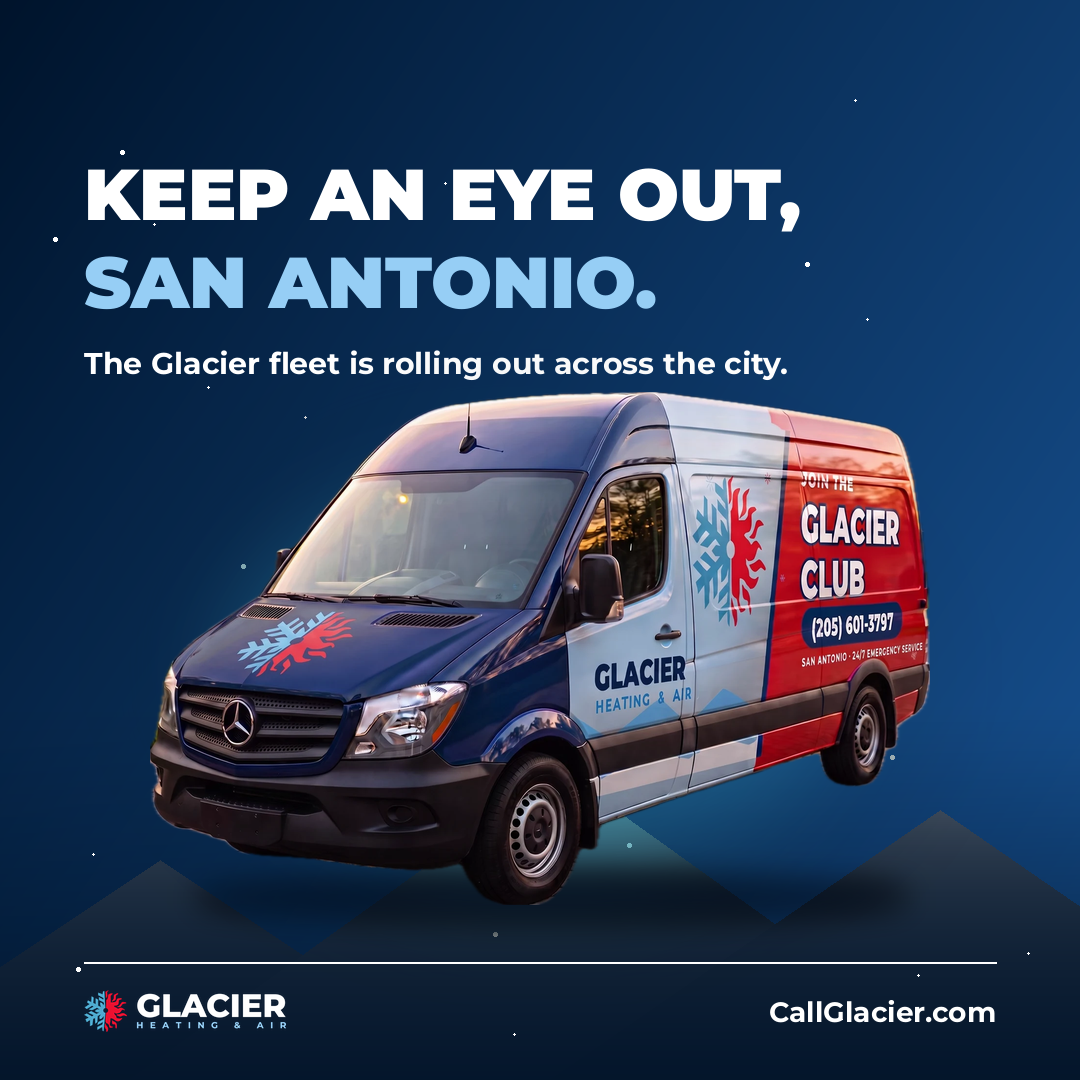
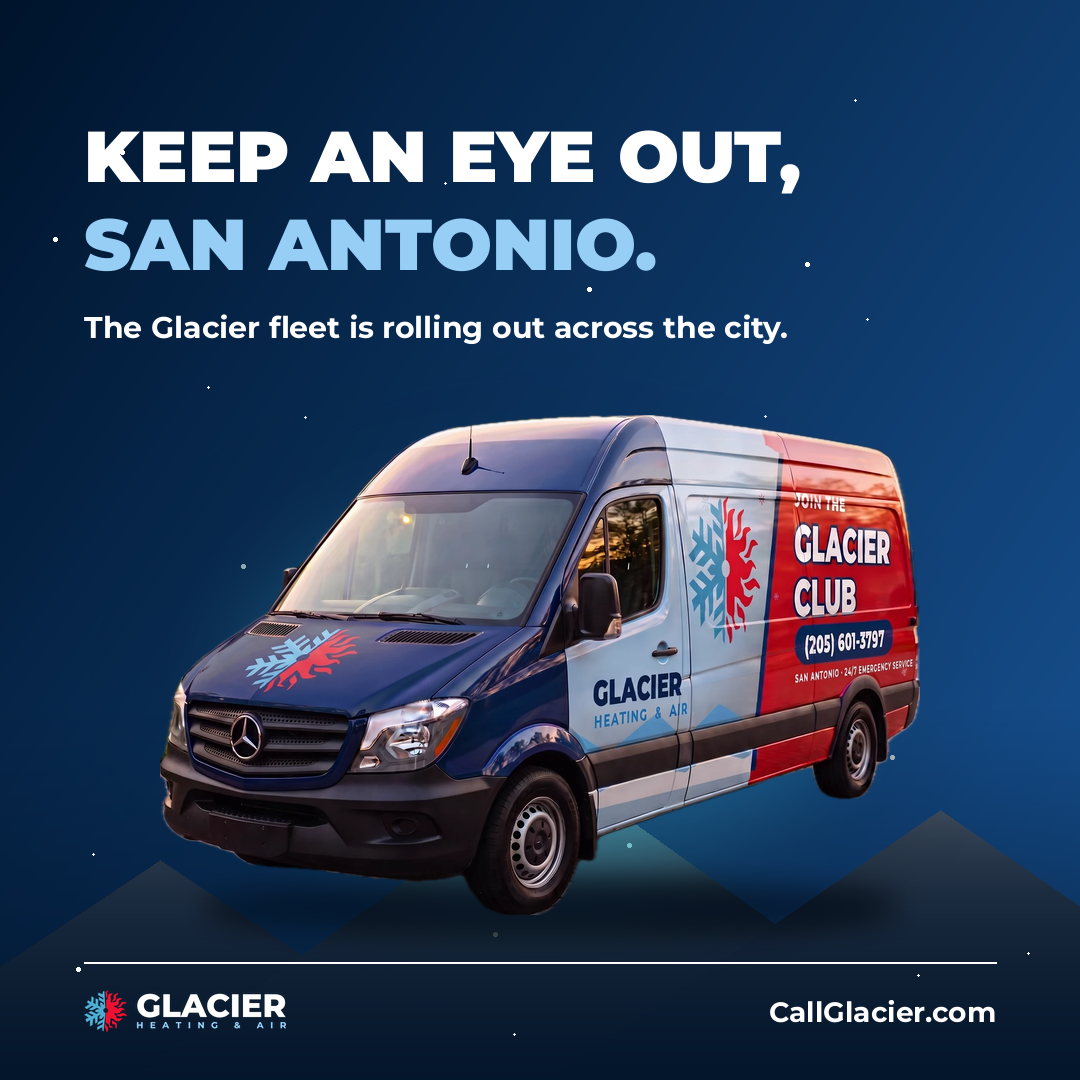
Expand to 8-post series: fix fleet spacing, add techs/stay-cool/pro-tip posts, raster snowflake glyph

Changed region(s): [[0.0611, 0.1222, 0.8861, 0.8556]]

diff --git a/glacier-site/scratchpad/make_posts.py b/glacier-site/scratchpad/make_posts.py
@@ -103,10 +103,10 @@ img=footer(img); img.convert("RGB").save("scratchpad/post1-launch.png")
 
 # ============ POST 2 — THE FLEET ============
 img=bg(); d=ImageDraw.Draw(img,"RGBA")
-d.text((M,150),"KEEP AN EYE OUT,",font=f("Black",72),fill=(255,255,255,255))
-d.text((M,238),"SAN ANTONIO.",font=f("Black",72),fill=ICE)
-d.text((M,344),"The Glacier fleet is rolling out across the city.",font=f("Bold",30),fill=(255,255,255,215))
-img=van_hero(img,780,905)
+d.text((M,112),"KEEP AN EYE OUT,",font=f("Black",72),fill=(255,255,255,255))
+d.text((M,200),"SAN ANTONIO.",font=f("Black",72),fill=ICE)
+d.text((M,308),"The Glacier fleet is rolling out across the city.",font=f("Bold",30),fill=(255,255,255,215))
+img=van_hero(img,760,915)
 img=footer(img); img.convert("RGB").save("scratchpad/post2-fleet.png")
 
 # ============ POST 3 — REVIEWS ============
@@ -173,4 +173,85 @@ d.text((px0+pad+isz+gap-pbb[0],py0+toth/2-phh/2-pbb[1]),pht,font=phf,fill=(255,2
 center(d,"Save this number. You'll be glad you did.",f("Bold",26),852,ICE2)
 img=footer(img); img.convert("RGB").save("scratchpad/post5-emergency.png")
 
-print("5 posts rendered")
+
+# ============ POST 6 — MEET THE TECHS ============
+img=bg(); d=ImageDraw.Draw(img,"RGBA")
+tracked_center(d,"THE PEOPLE BEHIND THE COLD AIR",f("Bold",24),148,ICE2,6)
+tech=Image.open("public/tech.webp").convert("RGBA")
+tw_,th_=tech.size
+# center-crop to 4:3
+if tw_/th_ > 4/3:
+    nw=int(th_*4/3); tech=tech.crop(((tw_-nw)//2,0,(tw_-nw)//2+nw,th_))
+else:
+    nh=int(tw_*3/4); tech=tech.crop((0,(th_-nh)//2,tw_,(th_-nh)//2+nh))
+PW,PH=760,570
+tech=tech.resize((PW,PH),Image.LANCZOS)
+mask=Image.new("L",(PW*3,PH*3),0)
+ImageDraw.Draw(mask).rounded_rectangle([0,0,PW*3,PH*3],radius=96,fill=255)
+mask=mask.resize((PW,PH),Image.LANCZOS)
+card=Image.new("RGBA",(PW,PH),(0,0,0,0)); card.paste(tech,(0,0),mask)
+px0,py0=(S-PW)//2,206
+shp=Image.new("RGBA",(S,S),(0,0,0,0)); sd=ImageDraw.Draw(shp)
+sd.rounded_rectangle([px0,py0+16,px0+PW,py0+PH+16],radius=32,fill=(0,10,26,160))
+img.alpha_composite(shp.filter(ImageFilter.GaussianBlur(20)))
+img.alpha_composite(card,(px0,py0))
+d=ImageDraw.Draw(img,"RGBA")
+d.rounded_rectangle([px0,py0,px0+PW,py0+PH],radius=32,outline=(255,255,255,220),width=5)
+center(d,"REAL TECHS. REAL SERVICE.",f("Black",56),846,(255,255,255,255))
+center(d,"Certified. Background-checked. Proud of the work.",f("Bold",27),904,ICE2)
+img=footer(img); img.convert("RGB").save("scratchpad/post6-techs.png")
+
+# ============ POST 7 — STAY COOL CAMPAIGN ============
+img=bg(); d=ImageDraw.Draw(img,"RGBA")
+center(d,"STAY COOL.",f("Black",84),168,(255,255,255,255))
+center(d,"STAY COMFORTABLE.",f("Black",84),272,ICE)
+bt="PREMIUM HVAC SERVICE FOR EVERY SPACE."
+bf=f("Bold",27); bw_,bh_,bbb=T(d,bt,bf)
+stx=(S-(bw_+76))//2; sty=352
+strip=Image.new("RGBA",(bw_+76,62),(0,0,0,0)); sd2=ImageDraw.Draw(strip)
+sd2.rounded_rectangle([0,0,bw_+76,62],radius=14,fill=(255,255,255,255))
+img.alpha_composite(strip,(stx,sty)); d=ImageDraw.Draw(img,"RGBA")
+d.text((stx+38-bbb[0],sty+31-bh_/2-bbb[1]),bt,font=bf,fill=NAVY)
+badges=[("snowflake","POWERFUL","COOLING","Fast. Efficient.","Reliable."),
+        ("wind","ENERGY","EFFICIENT","Save more on","electricity bills."),
+        ("shield","DURABLE &","RELIABLE","Built to last.","Built for you.")]
+colx=[S//6,S//2,5*S//6]; byy=500
+for (icn,t1,t2,s1,s2),cx in zip(badges,colx):
+    disc=Image.new("RGBA",(96,96),(0,0,0,0)); dd=ImageDraw.Draw(disc)
+    dd.ellipse([0,0,96,96],fill=(31,143,214,255))
+    img.alpha_composite(disc,(cx-48,byy)); img.alpha_composite(ic(icn,52),(cx-26,byy+22))
+    d=ImageDraw.Draw(img,"RGBA")
+    center(d,t1,f("ExtraBold",28),byy+136,(255,255,255,255),cx)
+    center(d,t2,f("ExtraBold",28),byy+172,(255,255,255,255),cx)
+    center(d,s1,f("Bold",20),byy+210,ICE2,cx)
+    center(d,s2,f("Bold",20),byy+236,ICE2,cx)
+pht="(205) 601-3797"; phf=f("ExtraBold",40)
+pw_,phh_,pbb=T(d,pht,phf)
+isz=40; pad=44; gap=18
+totw=pad+isz+gap+pw_+pad; toth=84
+px1=(S-totw)//2; py1=806
+d.rounded_rectangle([px1,py1,px1+totw,py1+toth],radius=42,fill=RED)
+img.alpha_composite(phico.resize((isz,isz),Image.LANCZOS),(int(px1+pad),int(py1+toth//2-isz//2)))
+d=ImageDraw.Draw(img,"RGBA")
+d.text((px1+pad+isz+gap-pbb[0],py1+toth/2-phh_/2-pbb[1]),pht,font=phf,fill=(255,255,255,255))
+img=footer(img); img.convert("RGB").save("scratchpad/post7-staycool.png")
+
+# ============ POST 8 — PRO TIP ============
+img=bg(); d=ImageDraw.Draw(img,"RGBA")
+tracked_center(d,"GLACIER PRO TIP · NO. 1",f("Bold",26),168,TURQ,8)
+center(d,"78°F",f("Black",210),380,(255,255,255,255))
+center(d,"The summer sweet spot.",f("ExtraBold",46),564,ICE)
+center(d,"Set it to 78 when you're home — every degree",f("Bold",28),648,(255,255,255,215))
+center(d,"lower adds about 7% to your cooling bill.",f("Bold",28),692,(255,255,255,215))
+ftx="Follow along for a new pro tip every week."
+ftf=f("Bold",24)
+fw,fh,fbb=T(d,ftx,ftf)
+icn2=ic("snowflake",24)
+tot=fw+12+24
+fx=(S-tot)/2
+d.text((fx-fbb[0],800-fh/2-fbb[1]),ftx,font=ftf,fill=ICE2)
+img.alpha_composite(icn2,(int(fx+fw+12),800-12))
+d=ImageDraw.Draw(img,"RGBA")
+img=footer(img); img.convert("RGB").save("scratchpad/post8-tip.png")
+
+print("8 posts rendered")
